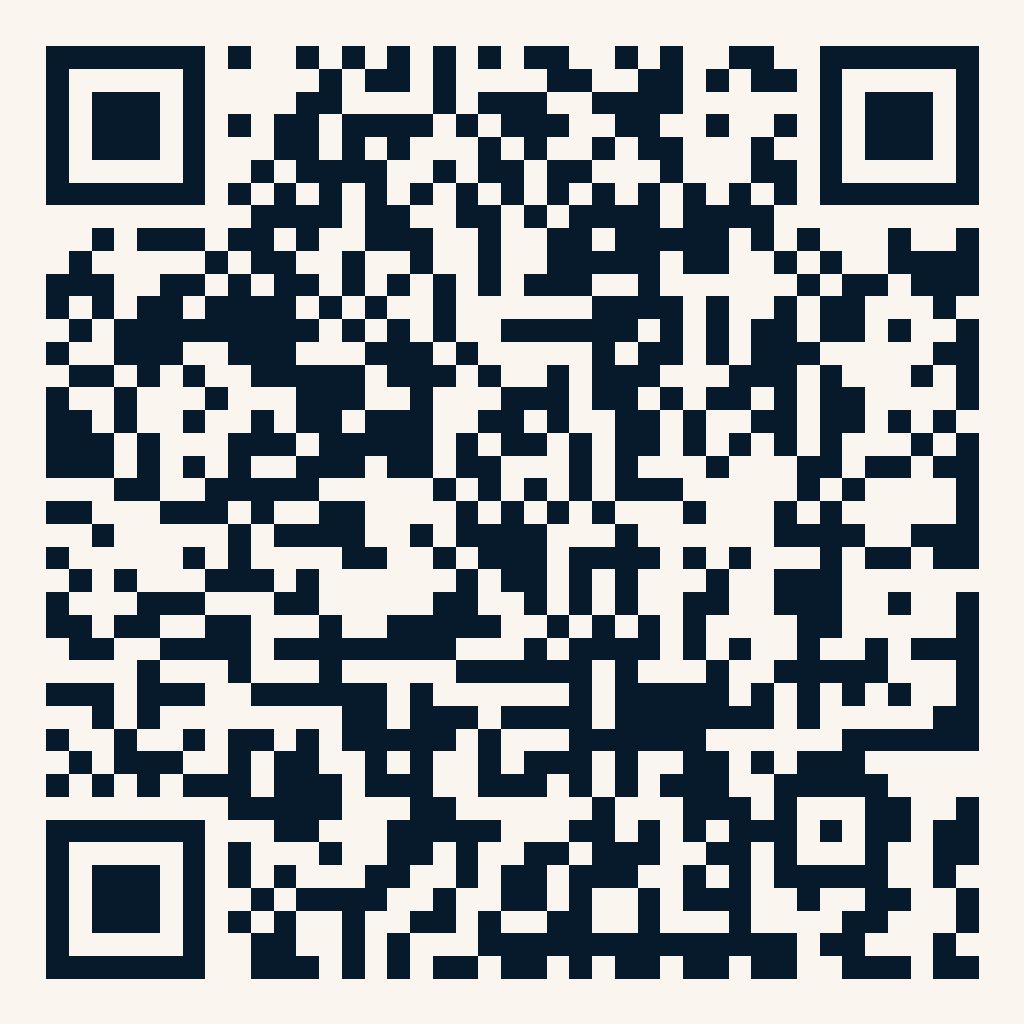
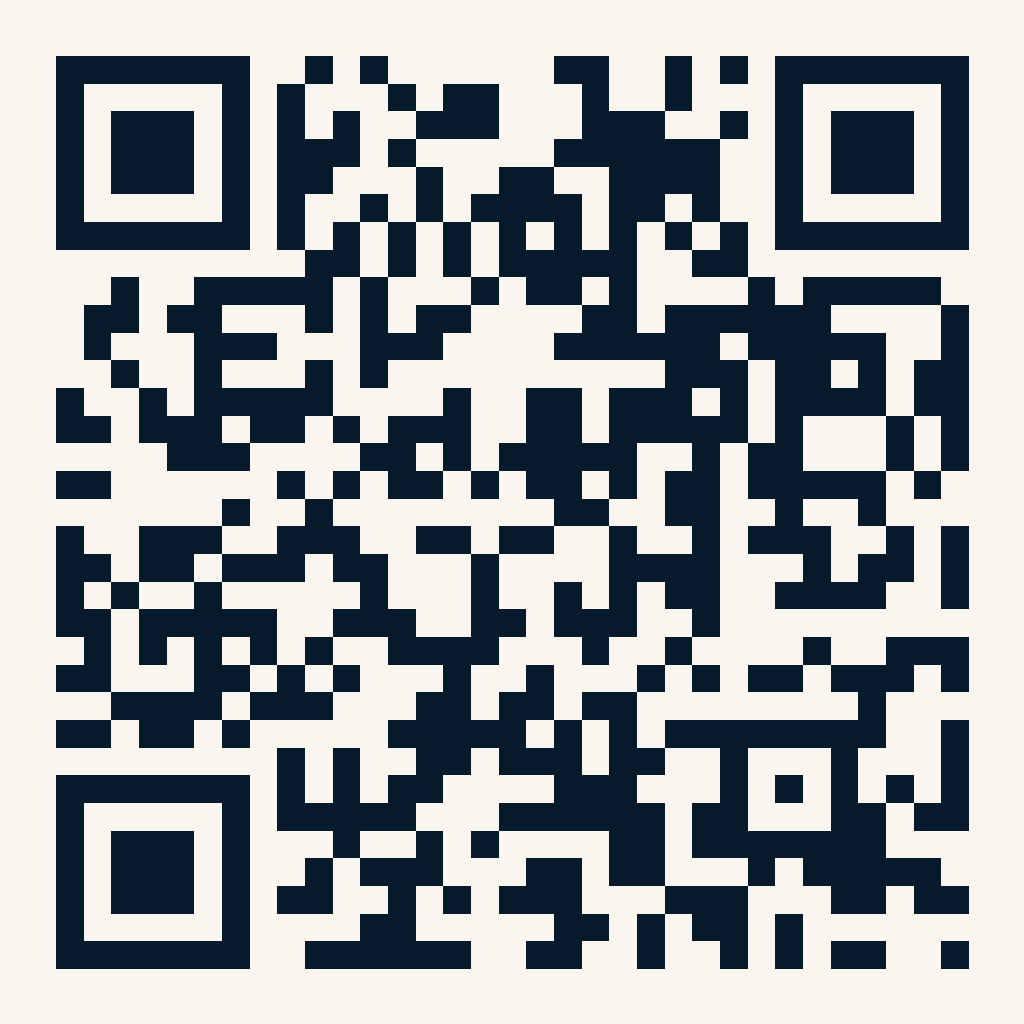
Serve the site from charismatransport.in.

diff --git a/index.html b/index.html
@@ -19,7 +19,7 @@
       property="og:description"
       content="Student trips, devotional trips, marriage trips and tourist group travel with 34 to 54 seater AC/Non-AC tourist buses. Based in Kanyakumari District. Travel throughout India."
     />
-    <meta property="og:url" content="https://charismatransport.com/" />
+    <meta property="og:url" content="https://charismatransport.in/" />
     <meta name="twitter:card" content="summary_large_image" />
     <title>Charisma Transport | Tourist Bus Rental & Travel Services</title>
     <link rel="preconnect" href="https://fonts.googleapis.com" />

diff --git a/src/config/contact.ts b/src/config/contact.ts
@@ -20,8 +20,8 @@ export const contactInfo = {
   location: "Kanyakumari District, Tamil Nadu, India",
   serviceArea: "Throughout India",
   mapsUrl: "https://maps.app.goo.gl/NSrZJntWZTVYgGig6",
-  websiteUrl: "https://shajinstuart.github.io/charismaTransport/",
-  domain: "https://charismatransport.com",
+  websiteUrl: "https://charismatransport.in/",
+  domain: "https://charismatransport.in",
   tagline: "Your Journey. Our Charisma.",
 };
 

diff --git a/vite.config.ts b/vite.config.ts
@@ -3,5 +3,5 @@ import react from "@vitejs/plugin-react";
 
 export default defineConfig({
   plugins: [react()],
-  base: "/charismaTransport/",
+  base: "/",
 });

diff --git a/README.md b/README.md
@@ -2,9 +2,7 @@
 
 Static marketing website for Charisma Transport — tourist bus rental from Kanyakumari District, Tamil Nadu. Built with React, TypeScript, Vite and Tailwind CSS.
 
-Live site (GitHub Pages): [https://shajinstuart.github.io/charismaTransport/](https://shajinstuart.github.io/charismaTransport/)
-
-Custom domain (later): [charismatransport.com](https://charismatransport.com)
+Live site: [https://charismatransport.in](https://charismatransport.in) (hosted on GitHub Pages)
 
 ## Local development
 
@@ -42,16 +40,23 @@ Update paths in:
 
 ## GitHub Pages
 
-The site deploys from GitHub Actions to:
-
-**https://shajinstuart.github.io/charismaTransport/**
+The site deploys from GitHub Actions to the custom domain **https://charismatransport.in**.
 
 1. Repo **Settings → Pages → Build and deployment → Source: GitHub Actions**.
 2. The workflow in `.github/workflows/deploy.yml` builds the Vite app, copies `index.html` to `404.html` for SPA routes, and publishes.
+3. `public/CNAME` contains `charismatransport.in`, and Vite `base` is `/`.
 
-Vite `base` is `/charismaTransport/` so assets and React Router work on this project URL.
+DNS at the domain registrar:
 
-To use `charismatransport.com` later: add a `public/CNAME` file, point DNS to GitHub Pages, then set `base: "/"` in `vite.config.ts` and remove the React Router basename.
+| Type | Host | Value |
+|---|---|---|
+| A | @ | 185.199.108.153 |
+| A | @ | 185.199.109.153 |
+| A | @ | 185.199.110.153 |
+| A | @ | 185.199.111.153 |
+| CNAME | www | shajinstuart.github.io |
+
+After changing the domain, regenerate the QR code with `npm run qr`.
 
 ## Enquiry form
 
